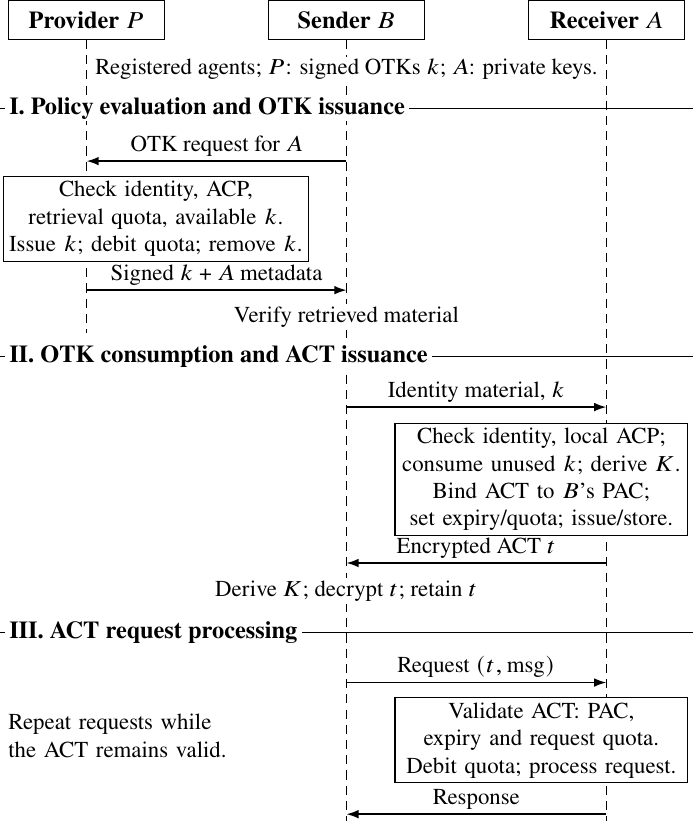
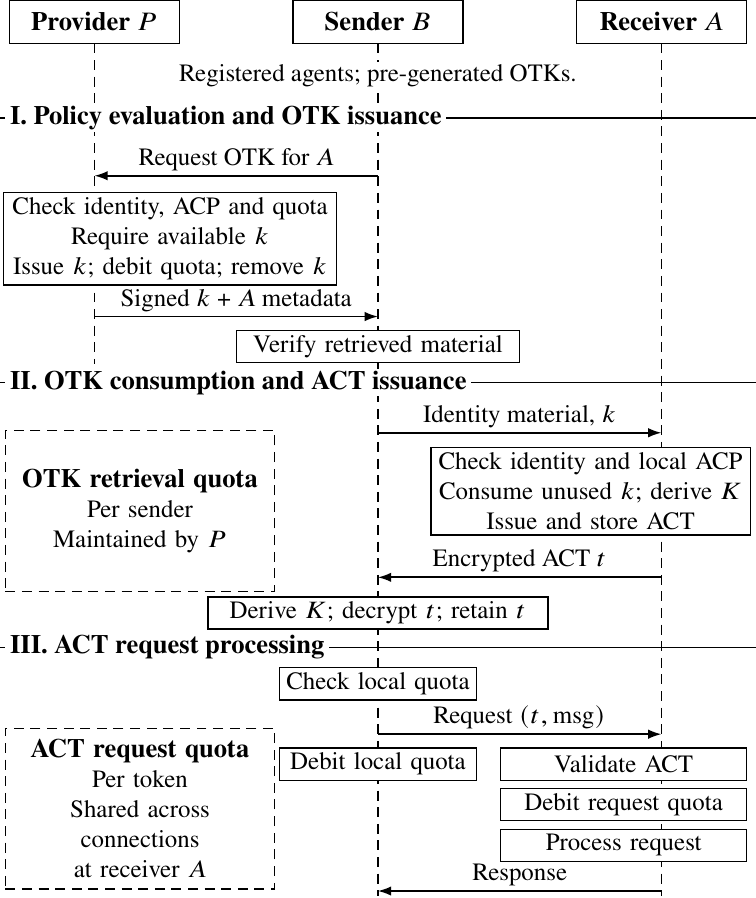
图改-1

diff --git a/paper_letter/draft_zh/02_授权流程与分析目标.tex b/paper_letter/draft_zh/02_授权流程与分析目标.tex
@@ -10,7 +10,7 @@
 \subsection{授权流程}
 \label{subsec:authorization-workflow}
 
-SAGA 的通信授权流程如图~\ref{fig:saga-authorization-workflow} 所示。设 Provider 为 $P$，接收方和发送方代理分别为 $A$ 和 $B$，两者均已完成注册与身份绑定。
+SAGA 的授权流程如图~\ref{fig:saga-authorization-workflow} 所示。设 Provider 为 $P$，接收方和发送方代理分别为 $A$ 和 $B$，两者均已完成注册与身份绑定。
 
 \begin{figure}[tb]
   \centering
@@ -19,11 +19,11 @@ SAGA 的通信授权流程如图~\ref{fig:saga-authorization-workflow} 所示。
   \label{fig:saga-authorization-workflow}
 \end{figure}
 
-接收方的代理接触策略（Agent Contact Policy，ACP）以代理标识符（AID）的匹配模式及预算定义通信许可。多条规则匹配时，应采用最匹配规则的预算。接收方的 OTK 预先生成，签名公钥材料提交给 $P$，对应私钥由 $A$ 保存。$P$ 核验 $B$ 的登记身份与 TLS 客户端证书，按发送方身份维护 OTK 领取额度，并在发放时移除相应公钥及扣减额度~\cite{syros2025sagaV2,sagaReferenceImpl2026}。
+接收方的代理接触策略（Agent Contact Policy，ACP）通过代理标识符（AID）的匹配模式及预算定义通信许可。当多条规则匹配时，应采用最匹配规则对应的预算。$A$ 将预先生成并签名的 OTK 公钥提交给 $P$，在本地保存对应私钥。$P$ 核验发送方的登记身份与 TLS 客户端证书，并根据接触策略确定其 OTK 领取额度，按发送方身份维护剩余额度~\cite{syros2025sagaV2,sagaReferenceImpl2026}。
 
-$B$ 验证通信材料后，与 $A$ 建立 TLS 连接并提交身份材料及 OTK。$A$ 核验当前发送方身份与本地接触许可，消费尚未使用的 OTK，并利用对应私钥与 $B$ 的访问控制公钥（PAC）派生共享密钥，签发绑定该公钥的 ACT。$B$ 利用自身访问控制私钥与 OTK 派生相同密钥，解密 ACT，并保存原密文及令牌元数据~\cite{syros2025sagaV2,sagaReferenceImpl2026}。
+$B$ 验证取得的通信材料后，与 $A$ 建立 TLS 连接并使用 OTK 申请 ACT。$A$ 消费尚未使用的 OTK，利用其对应私钥与 $B$ 的访问控制公钥（PAC）派生共享密钥，签发绑定该公钥且包含有效期与初始请求额度的 ACT。$B$ 利用自身访问控制私钥与 OTK 派生相同密钥，解密 ACT 并保存原密文及令牌元数据~\cite{syros2025sagaV2,sagaReferenceImpl2026}。
 
-后续请求携带原 ACT 密文，受到身份绑定、有效期和请求额度约束。同一 ACT 可在不同连接中复用，新连接中 $A$ 仍需核验身份、本地接触许可与 ACT 有效性。其初始请求额度由 $A$ 设置，共享剩余额度由 $A$ 维护；$B$ 在发送前检查本地额度，并在发送后扣减。ACT 请求额度与 $P$ 维护的 OTK 领取额度相互独立~\cite{sagaReferenceImpl2026}。
+后续请求携带 ACT 密文，其处理受到身份绑定、有效期和剩余请求额度的约束。同一 ACT 可在不同连接中复用，新连接仍须通过接收方的身份、接触策略及 ACT 有效性检查。发送方与接收方分别维护本地请求额度，其中接收方的剩余额度由使用同一 ACT 的连接共享。ACT 请求额度独立于 $P$ 维护的 OTK 领取额度~\cite{sagaReferenceImpl2026}。
 
 \subsection{分析目标}
 \label{subsec:analysis-objectives-assumptions}

diff --git a/paper_letter/draft_en/02_authorization_workflow_and_objectives.tex b/paper_letter/draft_en/02_authorization_workflow_and_objectives.tex
@@ -17,11 +17,11 @@ Fig.~\ref{fig:saga-authorization-workflow} illustrates SAGA's authorization work
   \label{fig:saga-authorization-workflow}
 \end{figure}
 
-The receiver's ACP (Agent Contact Policy) defines contact permission through AID (agent identifier) patterns and budgets. The most specific matching rule determines the budget. Signed OTKs are uploaded to $P$, while $A$ retains the corresponding private keys. The Provider verifies $B$'s registered identity and TLS (Transport Layer Security) client certificate, maintains a per-sender OTK retrieval quota, and removes the issued key and deducts one credit upon issuance~\cite{syros2025sagaV2,sagaReferenceImpl2026}.
+The receiver's ACP (Agent Contact Policy) defines contact permission through AID (agent identifier) patterns and budgets. When multiple rules match, the most specific matching rule determines the budget. Agent $A$ uploads pre-generated, signed OTK public keys to $P$ and retains the corresponding private keys. The Provider verifies the sender's registered identity and TLS (Transport Layer Security) client certificate, determines its OTK retrieval quota from the contact policy, and maintains the remaining quota for each sender~\cite{syros2025sagaV2,sagaReferenceImpl2026}.
 
-After verifying the retrieved material, $B$ establishes a TLS connection with $A$ and submits its identity material and OTK. Agent $A$ checks the sender's identity and local contact permission, consumes the unused OTK, and derives a shared key from its OTK private key and $B$'s PAC (public access control key) to issue an ACT bound to that PAC. Agent $B$ derives the same key using its private access control key and the OTK, decrypts the ACT, and retains the ciphertext and token metadata~\cite{syros2025sagaV2,sagaReferenceImpl2026}.
+After verifying the retrieved material, $B$ establishes a TLS connection with $A$ and uses the OTK to request an ACT. Agent $A$ consumes the unused OTK, derives a shared key from the corresponding private key and $B$'s PAC (public access control key), and issues an ACT bound to that PAC with a validity period and an initial request quota. Agent $B$ derives the same key using its private access control key and the OTK, decrypts the ACT, and retains the ciphertext and token metadata~\cite{syros2025sagaV2,sagaReferenceImpl2026}.
 
-Subsequent requests carry the retained ACT ciphertext and are subject to identity binding, expiration, and request quotas. An ACT can be reused across connections; the receiver still checks identity, local contact permission, and ACT validity at each new connection. Agent $A$ sets the initial request quota and maintains the shared remaining quota; $B$ checks its local quota before sending and deducts a credit afterward. The ACT request quota is independent of the OTK retrieval quota maintained by $P$~\cite{sagaReferenceImpl2026}.
+Subsequent requests carry the ACT ciphertext and are subject to identity binding, expiration, and remaining request quotas. An ACT can be reused across connections, with identity, local contact permission, and ACT validity checked at each new connection. The sender and receiver maintain separate local request quotas, and connections using the same ACT share the receiver's remaining quota. The ACT request quota is independent of the OTK retrieval quota maintained by $P$~\cite{sagaReferenceImpl2026}.
 
 \subsection{Analysis Objectives}
 \label{subsec:analysis-objectives-assumptions}
